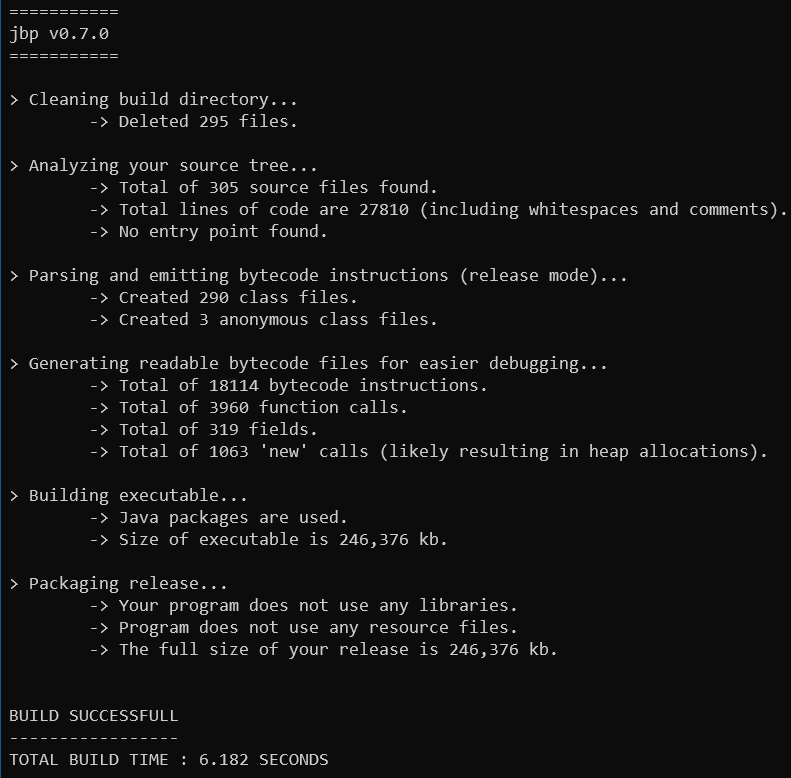
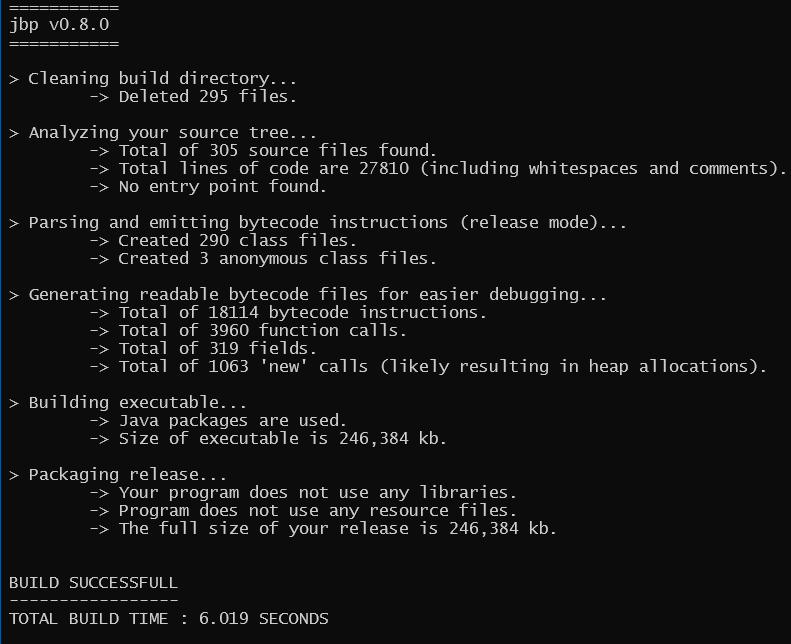
release 0.8.0; javac version in manifest of jar file

diff --git a/jbp.java b/jbp.java
@@ -261,7 +261,14 @@ public final class jbp {
             mfData.append("Class-Path: " + classpath.toString()).append(System.lineSeparator());
         }
 
-        mfData.append("Created-By: jbp").append(System.lineSeparator()); // @Incomplete: add current java version
+        String javacVersion = null;
+        try {
+            javacVersion = (String) execShellCommand(null, null, "javac", "--version")[0];
+        } catch (final IOException ex) {
+            javacVersion = "java";
+        }
+        assert javacVersion != null;
+        mfData.append("Created-By: ").append(javacVersion).append(System.lineSeparator());
         writeToFile("build/Manifest.txt", mfData.toString());
 
         boolean usesPackages = false;
@@ -740,7 +747,7 @@ public final class jbp {
         }
 
         System.out.println("===========");
-        System.out.println("jbp v0.7.0");
+        System.out.println("jbp v0.8.0");
         System.out.println("===========");
         System.out.println();
         startNanoTime = System.nanoTime();
